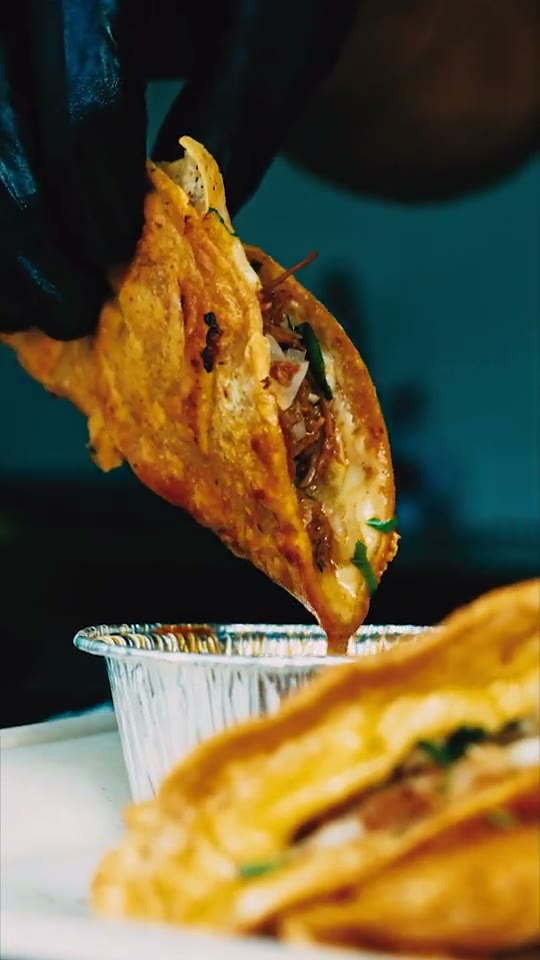
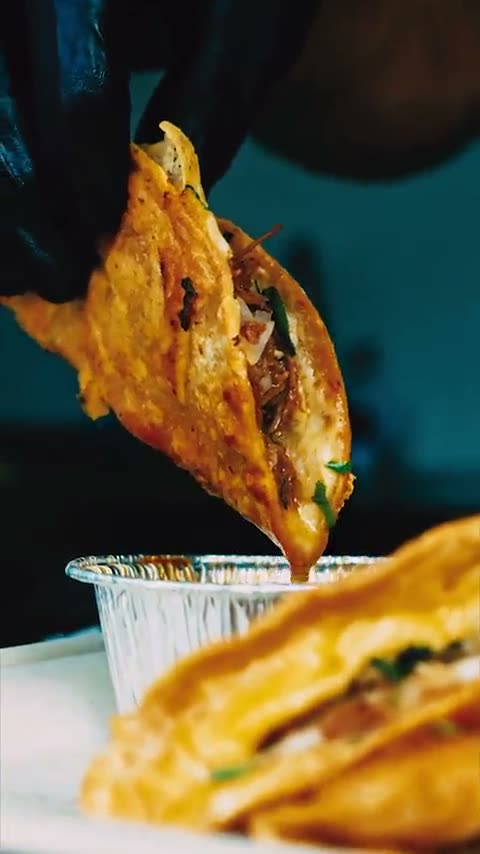
feat(no-manches): adicionais sincronizados (queijo gratinado) + vídeo iOS-proof
ADICIONAIS — ao juntar um taco, um bottom sheet pergunta 'Queres juntar
queijo gratinado? +1,50€'. O adicional é um item real do config (isExtra +
_hidden): entra no carrinho, no total, no WhatsApp, na comanda e no Modo
Cozinha como linha própria com nota 'para <prato>' — sem tocar na lógica
de totais nem no schema. Data-driven (extraOffer por secção, i18n 4
línguas), não repete o prompt se já está no pedido, respeita esgotados
do portal, funciona no carrinho partilhado.

VÍDEO — não tocava no iPhone: muted/playsInline agora definidos como
propriedades JS antes do play() (bug conhecido iOS), re-encode baseline
profile 480p yuv420p (4,1→3,8MB), preload=metadata, loop garantido,
moldura mais compacta (236px) e fallback ▶ tap-to-play quando o autoplay
é bloqueado (poupança de bateria). Confirmado acima do cartão Wi-Fi.

diff --git a/menu/rest-no-manches-lisboa/nexo-nomanches.css b/menu/rest-no-manches-lisboa/nexo-nomanches.css
@@ -833,3 +833,83 @@ body {
 /* Tagline "Mexican Street Food" removida — o prato desenhado já diz tudo */
 .hero-tagline { display: none; }
 .hero { height: 315px; }
+
+
+/* ══════════════════════════════════════════════════════════════════════════
+   IDENTIDADE VISUAL v6 — prompt de adicionais + vídeo compacto com fallback
+   ══════════════════════════════════════════════════════════════════════════ */
+
+/* ── Prompt "queres juntar queijo gratinado?" (bottom sheet) ─────────────── */
+#nm-extra-sheet {
+  position: fixed; inset: 0; z-index: 720;
+  display: flex; align-items: flex-end; justify-content: center;
+  background: rgba(0, 0, 0, 0.45);
+  opacity: 0;
+  transition: opacity 0.25s ease;
+  -webkit-tap-highlight-color: transparent;
+}
+#nm-extra-sheet.show { opacity: 1; }
+
+.nm-extra-card {
+  width: 100%; max-width: 430px;
+  background: var(--bg, #FEFCF5);
+  border: 1px solid rgba(200, 149, 42, 0.4);
+  border-bottom: none;
+  border-radius: 20px 20px 0 0;
+  box-shadow: inset 0 0 0 4px var(--bg, #FEFCF5), inset 0 0 0 5px rgba(200, 149, 42, 0.25),
+              0 -12px 40px rgba(0, 0, 0, 0.25);
+  padding: 22px 20px calc(20px + env(safe-area-inset-bottom));
+  text-align: center;
+  transform: translateY(100%);
+  transition: transform 0.3s cubic-bezier(0.22, 1, 0.36, 1);
+}
+#nm-extra-sheet.show .nm-extra-card { transform: translateY(0); }
+
+.nm-extra-emoji { font-size: 34px; margin-bottom: 6px; }
+.nm-extra-q {
+  font-family: var(--font-heading);
+  font-size: 22px;
+  letter-spacing: 0.03em;
+  text-transform: uppercase;
+  color: var(--text);
+  line-height: 1.15;
+}
+.nm-extra-for {
+  font-family: var(--font-ui);
+  font-size: 12.5px;
+  color: var(--text-muted);
+  margin: 4px 0 16px;
+}
+.nm-extra-actions { display: flex; flex-direction: column; gap: 9px; }
+.nm-extra-yes {
+  background: var(--accent); color: #fff;
+  border: none; border-radius: 12px;
+  padding: 14px; font-size: 15px; font-weight: 800;
+  font-family: var(--font-ui); cursor: pointer;
+  box-shadow: 0 6px 18px -6px rgba(200, 149, 42, 0.6);
+  transition: transform 0.12s;
+}
+.nm-extra-yes:active { transform: scale(0.97); }
+.nm-extra-no {
+  background: none; border: none; cursor: pointer;
+  font-family: var(--font-ui); font-size: 13px; font-weight: 600;
+  color: var(--text-muted); padding: 8px;
+}
+
+/* ── Vídeo: mais compacto (performance/atenção) + fallback ▶ ─────────────── */
+.nm-video-frame { max-width: 236px; width: 62vw; cursor: pointer; position: relative; }
+
+.nm-video-frame.nm-video-tap::after {
+  content: '▶';
+  position: absolute; inset: 0;
+  display: flex; align-items: center; justify-content: center;
+  font-size: 44px; color: #fff;
+  background: rgba(0, 0, 0, 0.35);
+  border-radius: 13px;
+  text-shadow: 0 4px 14px rgba(0, 0, 0, 0.6);
+  pointer-events: none;
+}
+
+@media (prefers-reduced-motion: reduce) {
+  #nm-extra-sheet, .nm-extra-card { transition: none; }
+}

diff --git a/menu/rest-no-manches-lisboa/script.js b/menu/rest-no-manches-lisboa/script.js
@@ -2476,7 +2476,7 @@ function getCartQty(refId) {
 
 // Adiciona 1x ao cart (ou incrementa)
 function addToCart(refId) {
-  if (sharedCart) { sharedAddToCart(refId); return; }
+  if (sharedCart) { sharedAddToCart(refId); maybeOfferExtra(refId); return; }
   const pill = document.getElementById('cart-pill');
   const wasVisible = pill?.classList.contains('show');
   const entry = cart.find(c => c.refId === refId);
@@ -2488,6 +2488,7 @@ function addToCart(refId) {
   const it = getItemByRef(refId);
   if (it) track('item_added', { item_name: it.name.pt, item_category: refId.split(':')[0], item_price: parsePriceToNumber(it.price) || 0 });
   onCartChange();
+  maybeOfferExtra(refId);
   if (wasVisible && pill) {
     pill.classList.remove('pop');
     void pill.offsetWidth;
@@ -2555,6 +2556,80 @@ function getItemByRef(refId) {
   const sec = CONFIG.menu.find(s => s.id === sid);
   if (!sec) return null;
   return sec.items[parseInt(iidxStr)] || null;
+}
+
+/* ─── ADICIONAIS (ex.: queijo gratinado +1,50€) ────────────────────────────
+   O adicional é um item real do config (isExtra + _hidden) — entra no
+   carrinho, no total, no pedido e na cozinha como qualquer item, com uma
+   nota a dizer a que prato pertence. O prompt aparece ao juntar um item de
+   uma secção com `extraOffer`. */
+function findSectionExtra(sectionId) {
+  if (typeof CONFIG === 'undefined' || !Array.isArray(CONFIG.menu)) return null;
+  const sec = CONFIG.menu.find(s => s.id === sectionId);
+  if (!sec || !sec.extraOffer) return null;
+  const idx = sec.items.findIndex(it => it && it.isExtra);
+  if (idx === -1) return null;
+  return { sec, extraRef: `${sec.id}:${idx}`, extraItem: sec.items[idx], offer: sec.extraOffer };
+}
+
+function maybeOfferExtra(refId) {
+  try {
+    const info = findSectionExtra(refId.split(':')[0]);
+    if (!info) return;
+    const added = getItemByRef(refId);
+    if (!added || added.isExtra) return;                       // o próprio extra
+    // extra esgotado (config ou disponibilidade em tempo real) → não oferecer
+    if (info.extraItem.soldOut || _nexoAvailability[info.extraRef] === false) return;
+    // já está no pedido → não perguntar outra vez
+    if (sharedCart) {
+      if ((sharedCartItems || []).some(r => r.item_id === info.extraRef)) return;
+    } else if (cart.find(c => c.refId === info.extraRef)) {
+      return;
+    }
+    if (document.getElementById('nm-extra-sheet')) return;     // já aberto
+    showExtraSheet(info, added);
+  } catch (_) { /* o prompt é opcional — nunca partir o fluxo de pedido */ }
+}
+
+function showExtraSheet(info, forItem) {
+  const L = currentLang || 'pt';
+  const pick = (o) => (o && (o[L] || o.pt)) || '';
+  const sheet = document.createElement('div');
+  sheet.id = 'nm-extra-sheet';
+  sheet.innerHTML = `
+    <div class="nm-extra-card" role="dialog" aria-modal="true" aria-label="${pick(info.offer.question)}">
+      <div class="nm-extra-emoji">🧀</div>
+      <p class="nm-extra-q">${pick(info.offer.question)}</p>
+      <p class="nm-extra-for">${forItem.name[L] || forItem.name.pt}</p>
+      <div class="nm-extra-actions">
+        <button type="button" class="nm-extra-yes">${pick(info.offer.yes) || 'Sim'} · +${info.extraItem.price}</button>
+        <button type="button" class="nm-extra-no">${pick(info.offer.no) || 'Não, obrigado'}</button>
+      </div>
+    </div>`;
+  document.body.appendChild(sheet);
+  requestAnimationFrame(() => sheet.classList.add('show'));
+  const close = () => { sheet.classList.remove('show'); setTimeout(() => sheet.remove(), 260); };
+
+  sheet.addEventListener('click', (e) => { if (e.target === sheet) close(); });
+  sheet.querySelector('.nm-extra-no').addEventListener('click', () => {
+    track('extra_declined', { extra: info.extraItem.name.pt });
+    close();
+  });
+  sheet.querySelector('.nm-extra-yes').addEventListener('click', () => {
+    haptic();
+    addToCart(info.extraRef);
+    // liga o adicional ao prato — a nota segue para o pedido e para a cozinha
+    if (!sharedCart) {
+      const entry = cart.find(c => c.refId === info.extraRef);
+      if (entry && !entry.note) {
+        const paraWord = { pt: 'para', en: 'for', es: 'para', fr: 'pour' }[L] || 'para';
+        entry.note = `${paraWord} ${forItem.name[L] || forItem.name.pt}`;
+        onCartChange();
+      }
+    }
+    track('extra_added', { extra: info.extraItem.name.pt, with: forItem.name.pt });
+    close();
+  });
 }
 
 // Note helpers

diff --git a/menu/rest-no-manches-lisboa/index.html b/menu/rest-no-manches-lisboa/index.html
@@ -279,8 +279,8 @@
       <span class="nm-video-eyebrow">Espreita a chapa</span>
       <h2 class="nm-video-title">¡Así se hace!</h2>
     </div>
-    <div class="nm-video-frame">
-      <video id="nm-video" muted loop playsinline preload="none"
+    <div class="nm-video-frame" id="nm-video-frame">
+      <video id="nm-video" muted loop playsinline webkit-playsinline preload="metadata"
              poster="./video/tacos-poster.jpg" aria-label="Vídeo: tacos No Manches na chapa">
         <source src="./video/tacos.mp4" type="video/mp4">
       </video>
@@ -292,13 +292,34 @@
   (function () {
     var v = document.getElementById('nm-video');
     var sec = document.getElementById('section-video');
+    var frame = document.getElementById('nm-video-frame');
     if (!v || !sec) return;
-    if (!('IntersectionObserver' in window)) { v.setAttribute('preload', 'metadata'); return; }
+
+    // iOS: o atributo muted nem sempre é honrado — as PROPRIEDADES têm de
+    // estar definidas antes do play(), senão o autoplay é recusado.
+    v.muted = true; v.defaultMuted = true; v.playsInline = true; v.loop = true;
+
+    function tryPlay() {
+      var p = v.play();
+      if (p && p.catch) p.catch(function () {
+        // autoplay bloqueado (ex.: poupança de bateria) → mostra ▶ para tocar
+        if (frame) frame.classList.add('nm-video-tap');
+      });
+    }
+    v.addEventListener('playing', function () {
+      if (frame) frame.classList.remove('nm-video-tap');
+    });
+    // toque na moldura alterna play/pausa — gesto do utilizador desbloqueia sempre
+    if (frame) frame.addEventListener('click', function () {
+      if (v.paused) tryPlay(); else v.pause();
+    });
+
+    if (!('IntersectionObserver' in window)) { tryPlay(); return; }
     var io = new IntersectionObserver(function (es) {
       es.forEach(function (e) {
         if (e.isIntersecting) {
           sec.classList.add('nm-in');            /* revela a moldura */
-          v.play().catch(function () {});        /* mudo + playsinline = autoplay ok */
+          tryPlay();
         } else {
           v.pause();                              /* poupa bateria fora do ecrã */
         }

diff --git a/menu/rest-no-manches-lisboa/config.js b/menu/rest-no-manches-lisboa/config.js
@@ -390,8 +390,29 @@ const CONFIG = {
           baseName: { pt: "Taco de Camarão", en: "Shrimp Taco", es: "Taco de Camarón", fr: "Taco de Crevettes" },
           name: { pt: "Taco de Camarão ×3", en: "Shrimp Taco ×3", es: "Taco de Camarón ×3", fr: "Taco de Crevettes ×3" },
           price: "9,90€", photo: null, diet: [], allergens: [2,3]
+        },
+
+        /* ── ADICIONAL (escondido do menu; entra no pedido/cozinha como linha
+              própria via prompt "queres juntar?" ao adicionar um taco) ── */
+        {
+          isExtra: true, _hidden: true,
+          name: { pt: "+ Queijo Gratinado", en: "+ Gratinated Cheese", es: "+ Queso Gratinado", fr: "+ Fromage Gratiné" },
+          desc: { pt: "Adicional para tacos.", en: "Add-on for tacos.", es: "Adicional para tacos.", fr: "Supplément pour tacos." },
+          price: "1,50€", photo: null, diet: [], allergens: [7]
         }
-      ]
+      ],
+
+      /* Prompt do adicional — aparece ao juntar qualquer taco ao pedido */
+      extraOffer: {
+        question: {
+          pt: "Queres juntar queijo gratinado?",
+          en: "Add gratinated cheese?",
+          es: "¿Quieres añadir queso gratinado?",
+          fr: "Ajouter du fromage gratiné ?"
+        },
+        yes: { pt: "Sim, juntar", en: "Yes, add it", es: "Sí, añadir", fr: "Oui, ajouter" },
+        no:  { pt: "Não, obrigado", en: "No, thanks", es: "No, gracias", fr: "Non, merci" }
+      }
     },
 
     /* ── SOBREMESA ── */

diff --git a/tests/test-report.html b/tests/test-report.html
@@ -7,7 +7,7 @@ table{width:100%;border-collapse:collapse;font-size:13px} th,td{text-align:left;
 .green{background:rgba(34,197,94,.15);color:#22C55E} .red{background:rgba(239,68,68,.15);color:#EF4444}
 </style></head><body>
 <h1>NEXO — Relatório de testes unitários</h1>
-<p class="summary"><span class="pill green">26/26 passaram</span> · gerado 08/07/2026, 19:21:33</p>
+<p class="summary"><span class="pill green">26/26 passaram</span> · gerado 08/07/2026, 19:47:15</p>
 <table><thead><tr><th></th><th>Suite</th><th>Teste</th><th>Tempo</th><th>Erro</th></tr></thead><tbody>
   <tr class="ok">
     <td>✅</td><td>NexoSecurity.sanitise</td><td>strips <script> (no '<' remains)</td>
@@ -15,11 +15,11 @@ table{width:100%;border-collapse:collapse;font-size:13px} th,td{text-align:left;
   </tr>
   <tr class="ok">
     <td>✅</td><td>NexoSecurity.sanitise</td><td>passes normal text through</td>
-    <td>1ms</td><td></td>
+    <td>0ms</td><td></td>
   </tr>
   <tr class="ok">
     <td>✅</td><td>NexoSecurity.sanitise</td><td>empty string → empty</td>
-    <td>0ms</td><td></td>
+    <td>1ms</td><td></td>
   </tr>
   <tr class="ok">
     <td>✅</td><td>NexoSecurity.sanitise</td><td>null → empty</td>
@@ -39,7 +39,7 @@ table{width:100%;border-collapse:collapse;font-size:13px} th,td{text-align:left;
   </tr>
   <tr class="ok">
     <td>✅</td><td>NexoSecurity.sanitise</td><td>enforces max length</td>
-    <td>1ms</td><td></td>
+    <td>0ms</td><td></td>
   </tr>
   <tr class="ok">
     <td>✅</td><td>NexoSecurity.validateTableNumber</td><td>5 within 10 → valid</td>
@@ -47,7 +47,7 @@ table{width:100%;border-collapse:collapse;font-size:13px} th,td{text-align:left;
   </tr>
   <tr class="ok">
     <td>✅</td><td>NexoSecurity.validateTableNumber</td><td>15 within 10 → invalid</td>
-    <td>1ms</td><td></td>
+    <td>0ms</td><td></td>
   </tr>
   <tr class="ok">
     <td>✅</td><td>NexoSecurity.validateTableNumber</td><td>0 → invalid</td>
@@ -87,7 +87,7 @@ table{width:100%;border-collapse:collapse;font-size:13px} th,td{text-align:left;
   </tr>
   <tr class="ok">
     <td>✅</td><td>NexoSecurity.validatePhone</td><td>too short → invalid</td>
-    <td>1ms</td><td></td>
+    <td>0ms</td><td></td>
   </tr>
   <tr class="ok">
     <td>✅</td><td>NexoSecurity.getPublicErrorMessage</td><td>never leaks PGRST internals</td>
@@ -103,7 +103,7 @@ table{width:100%;border-collapse:collapse;font-size:13px} th,td{text-align:left;
   </tr>
   <tr class="ok">
     <td>✅</td><td>NexoSecurity.checkRateLimit</td><td>staff_call blocks the 2nd within the window</td>
-    <td>1ms</td><td></td>
+    <td>0ms</td><td></td>
   </tr>
   <tr class="ok">
     <td>✅</td><td>NexoSecurity.getSessionId</td><td>returns a non-empty string</td>